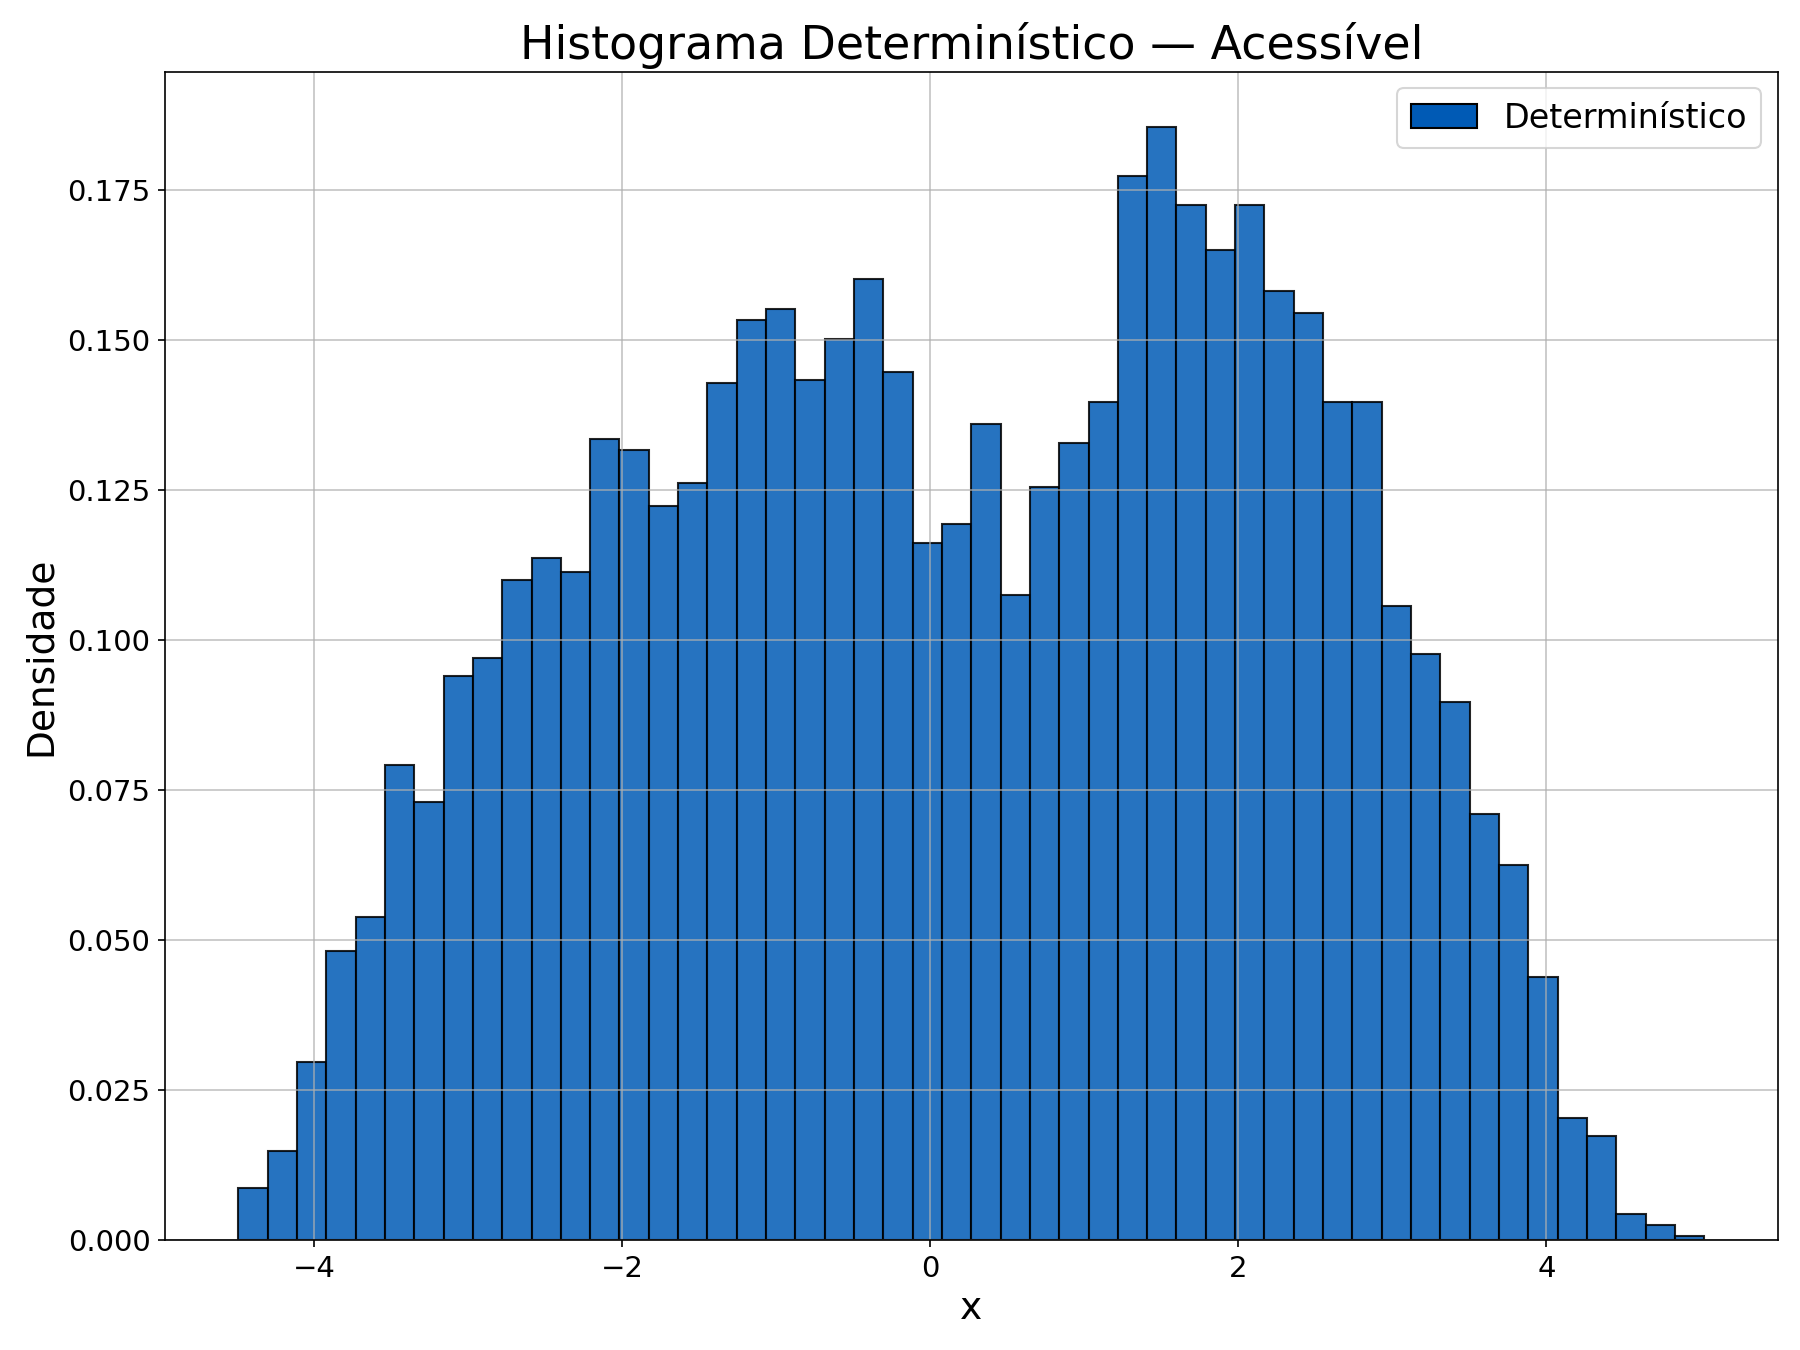
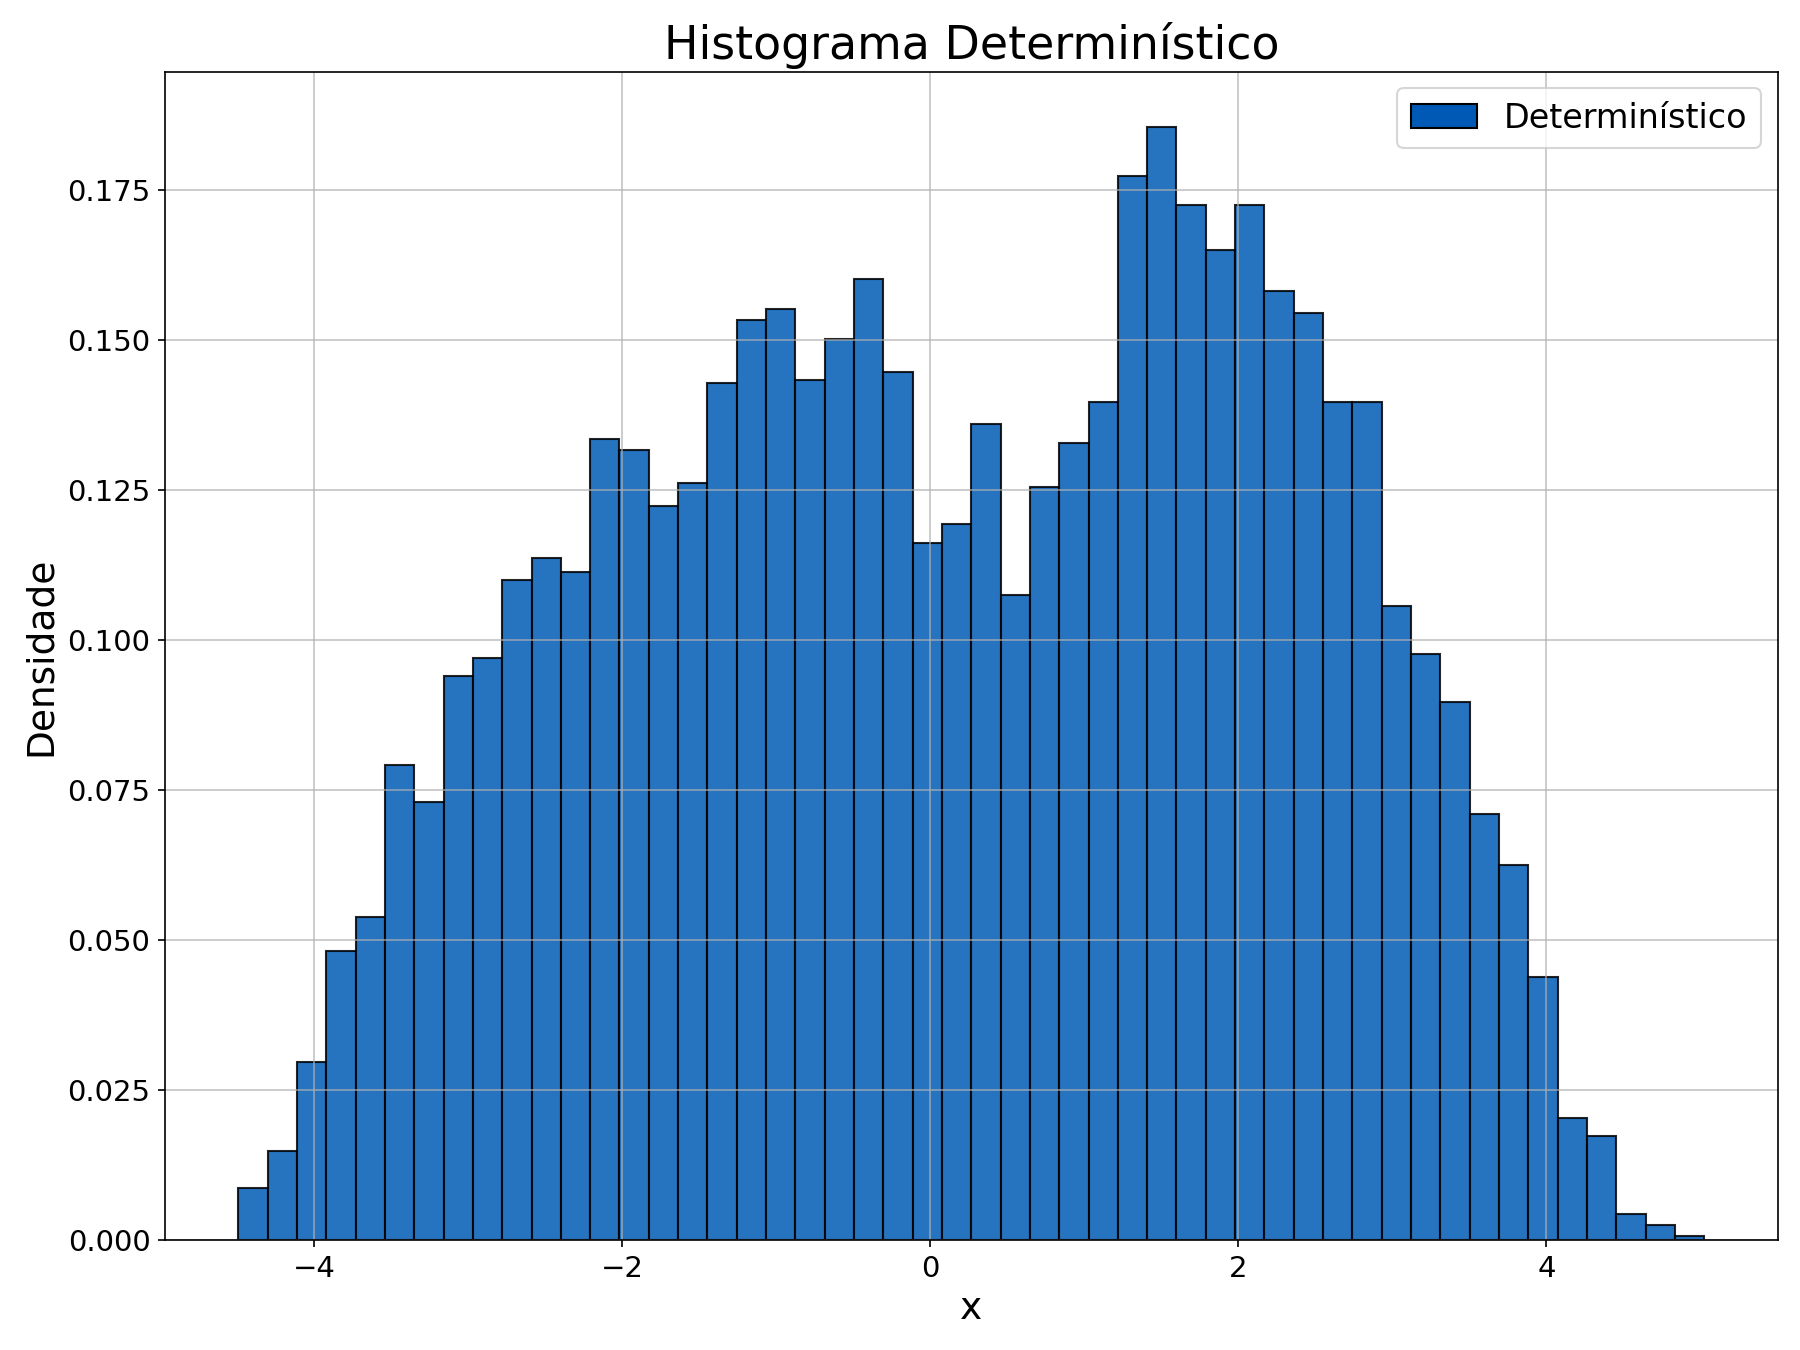
Correções nos plots

Changed region(s): [[0.28, 0.0, 0.7778, 0.0622]]

diff --git a/05_WIENER_ACOPLADO/plot_histograma.py b/05_WIENER_ACOPLADO/plot_histograma.py
@@ -33,7 +33,7 @@ x_estocastico    = df_estocastico.iloc[:, 1]
 # Histograma determinístico
 plt.figure(figsize=(12, 9))
 plt.hist(x_deterministico, bins=50, density=True, color=COL_DET, edgecolor="black", alpha=0.85)
-plt.title("Histograma Determinístico — Acessível")
+plt.title("Histograma Determinístico")
 plt.xlabel("x")
 plt.ylabel("Densidade")
 plt.grid(True, alpha=0.75)
@@ -46,7 +46,7 @@ plt.close()
 plt.figure(figsize=(12, 9))
 plt.hist(x_estocastico, bins=50, density=True,
          color=COL_EST, edgecolor="black", alpha=0.85)
-plt.title("Histograma Estocástico — Acessível")
+plt.title("Histograma Estocástico")
 plt.xlabel("x")
 plt.ylabel("Densidade")
 plt.grid(True, alpha=0.75)
